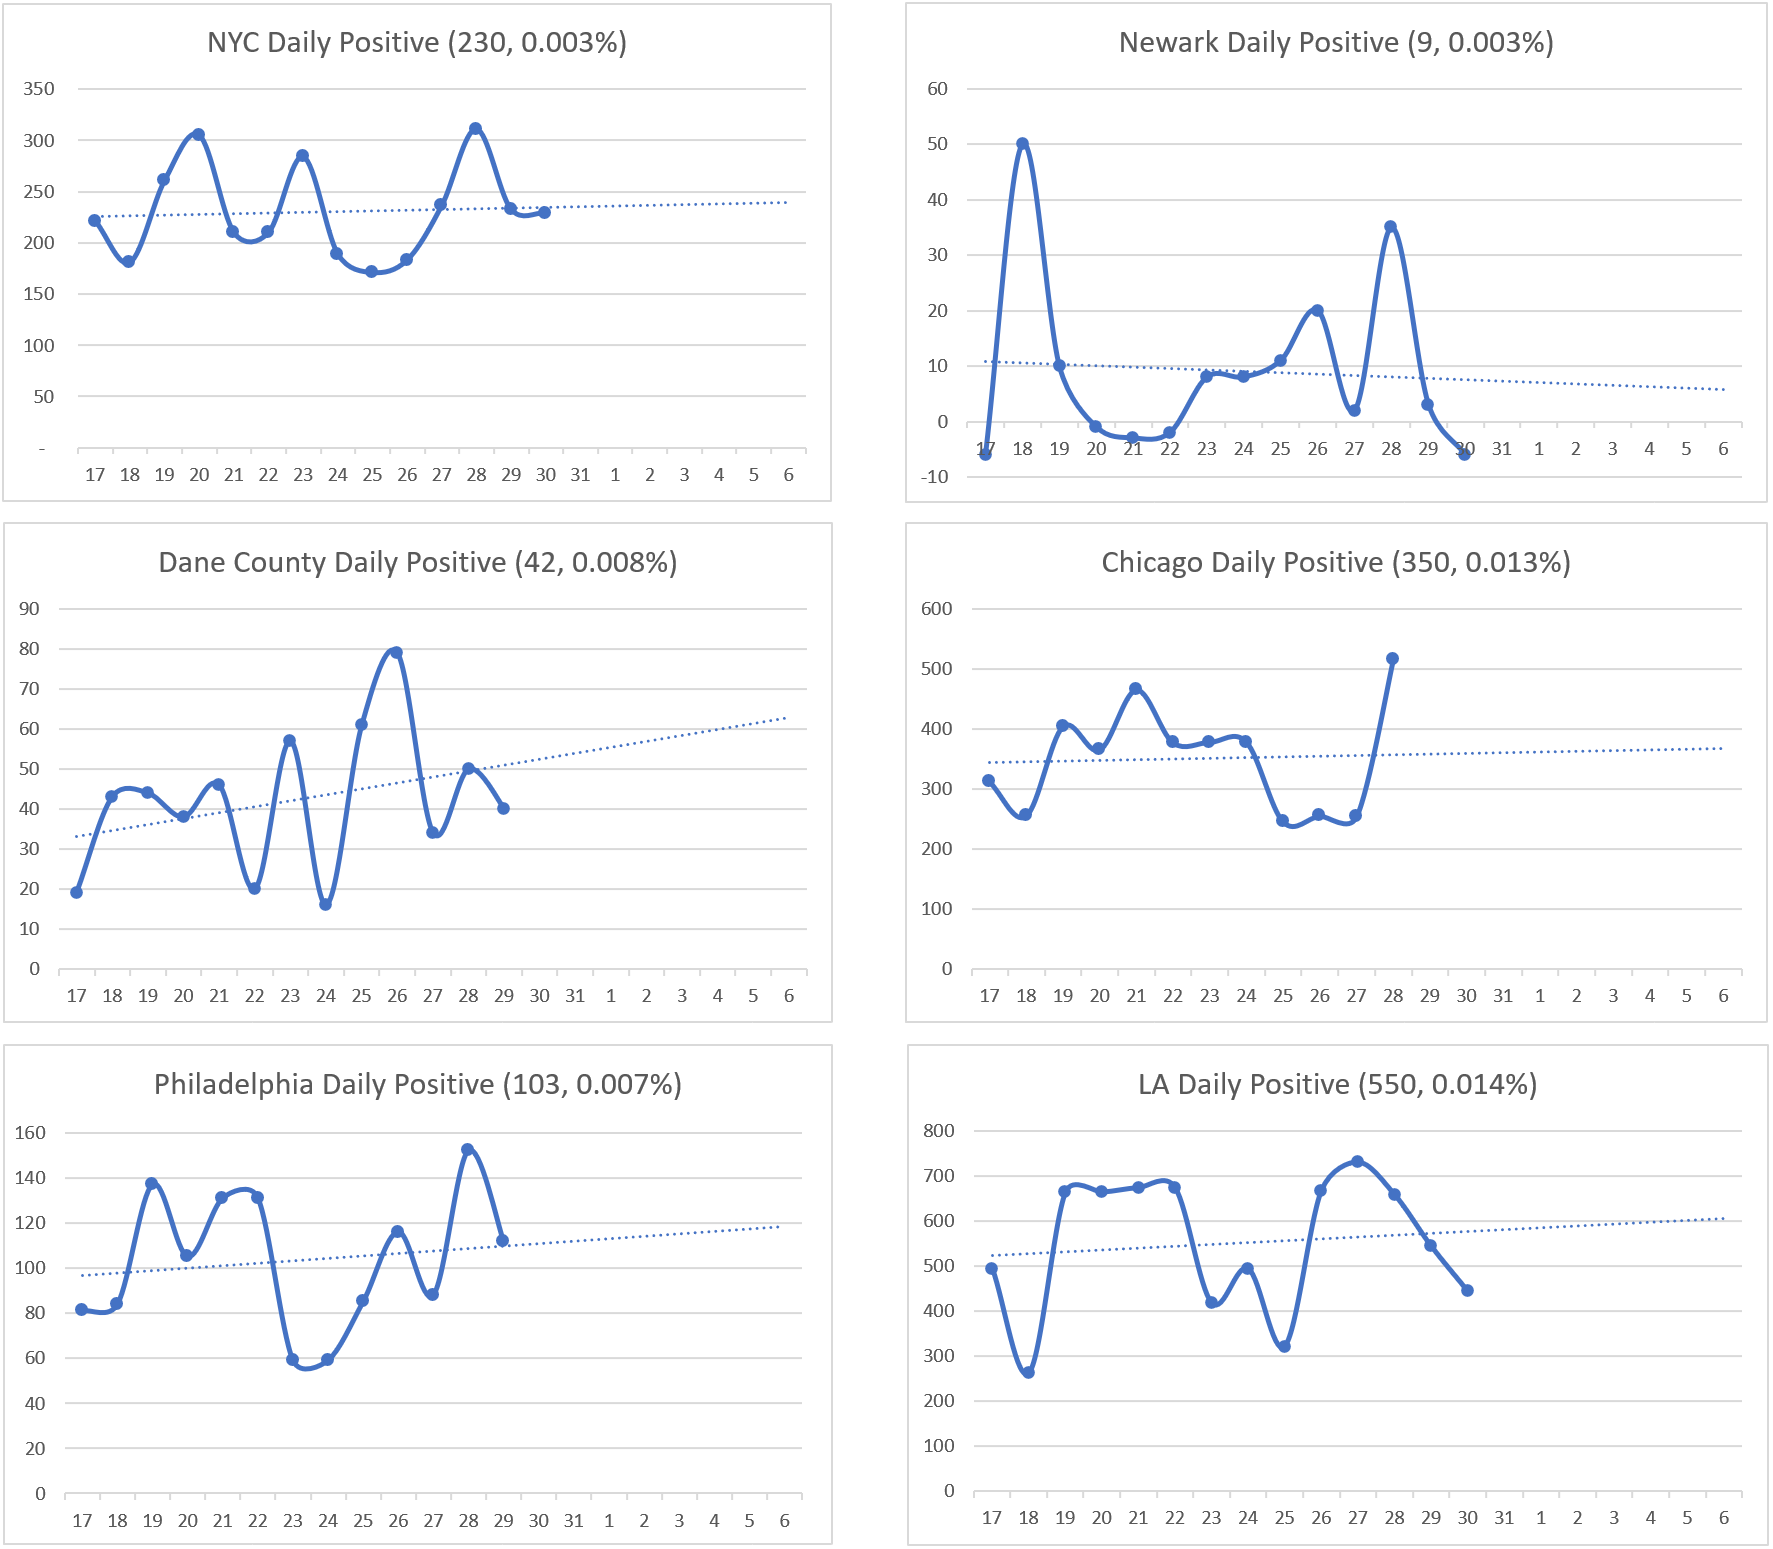
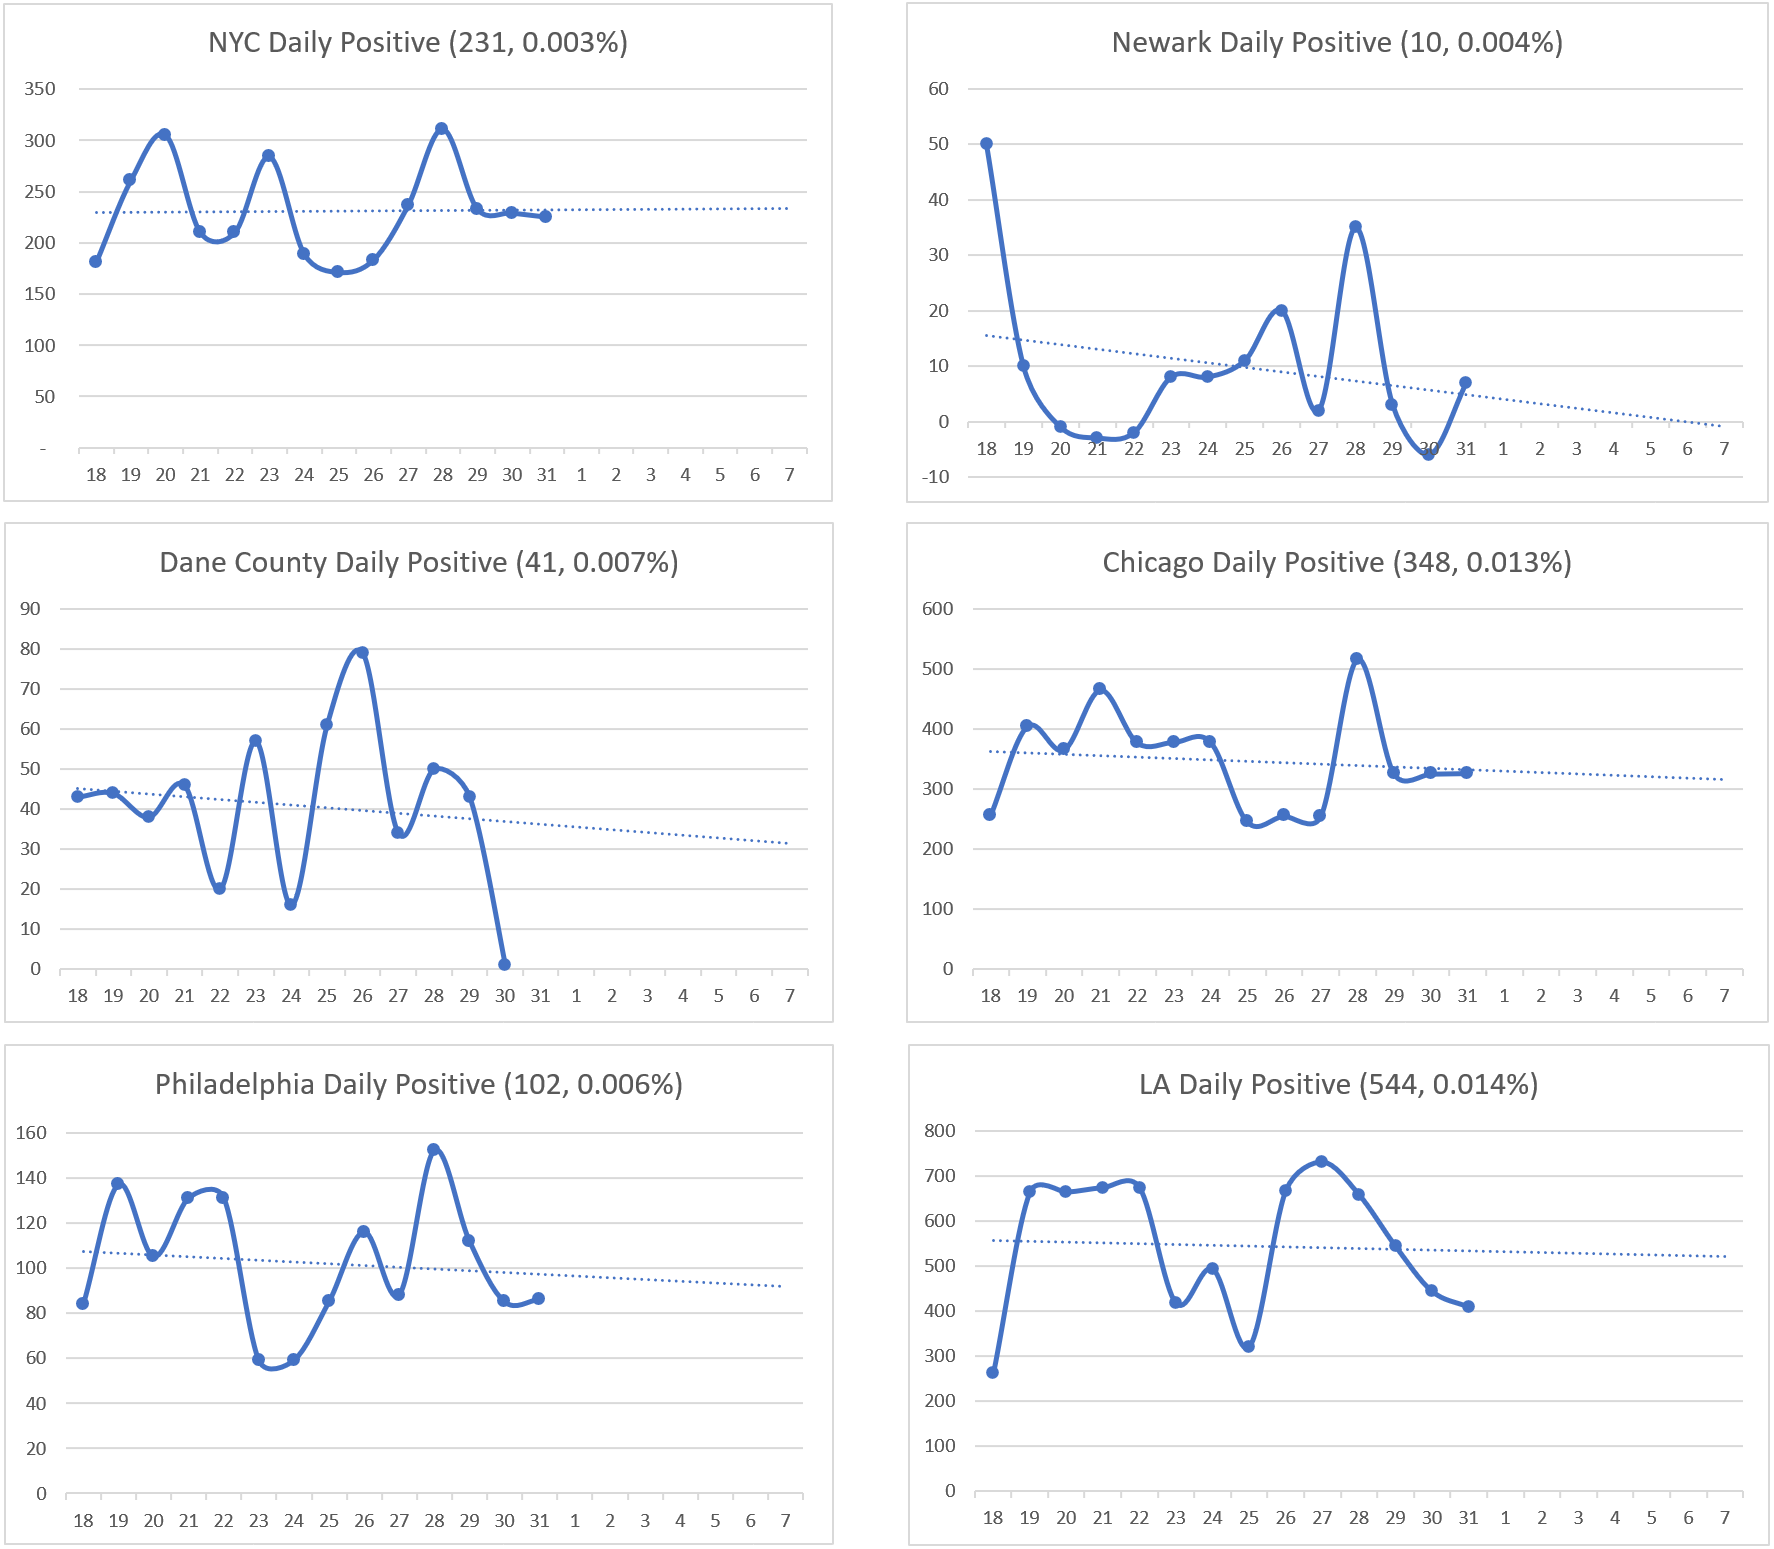
update 8/31 status

diff --git a/index.html b/index.html
@@ -19,7 +19,7 @@
 
 <body class="container-fluid">
 	<h1> CoronaV for Friends</h1>
-	<h2> Data updated at Aug 30 2020 EST 21:55</h2>
+	<h2> Data updated at Aug 31 2020 EST 23:55</h2>
 	<hr>
 	<main>
 		<div class="row">
